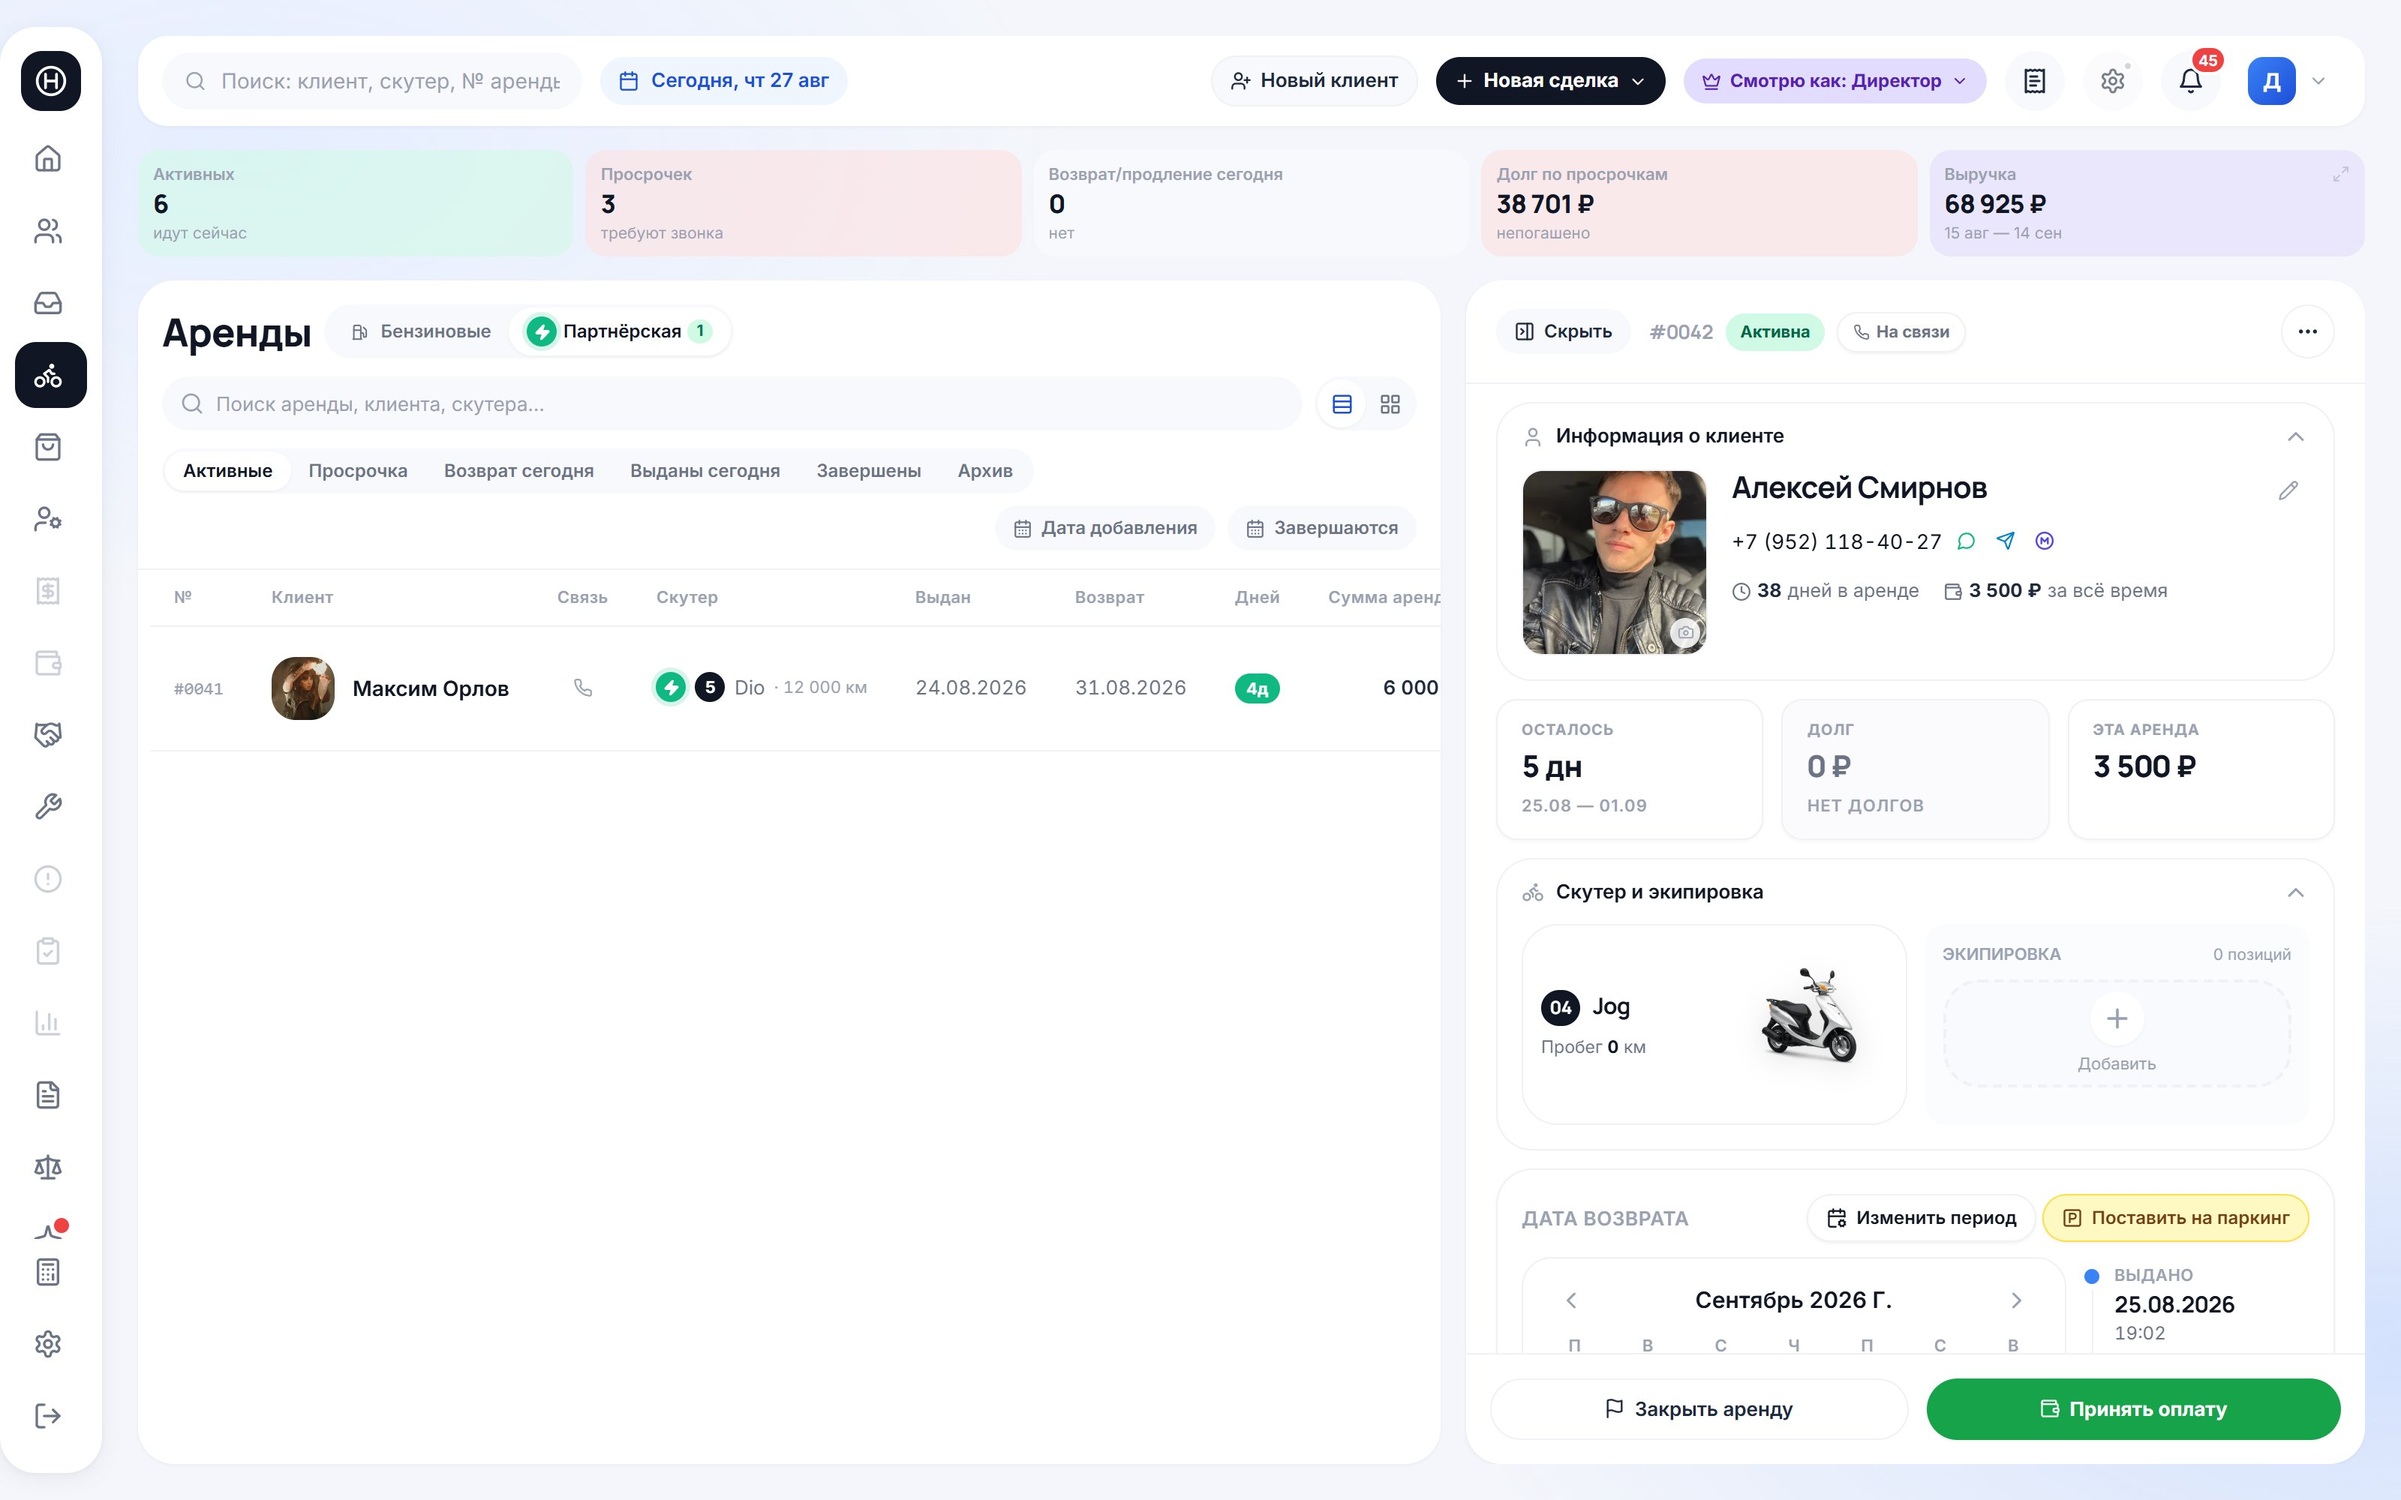
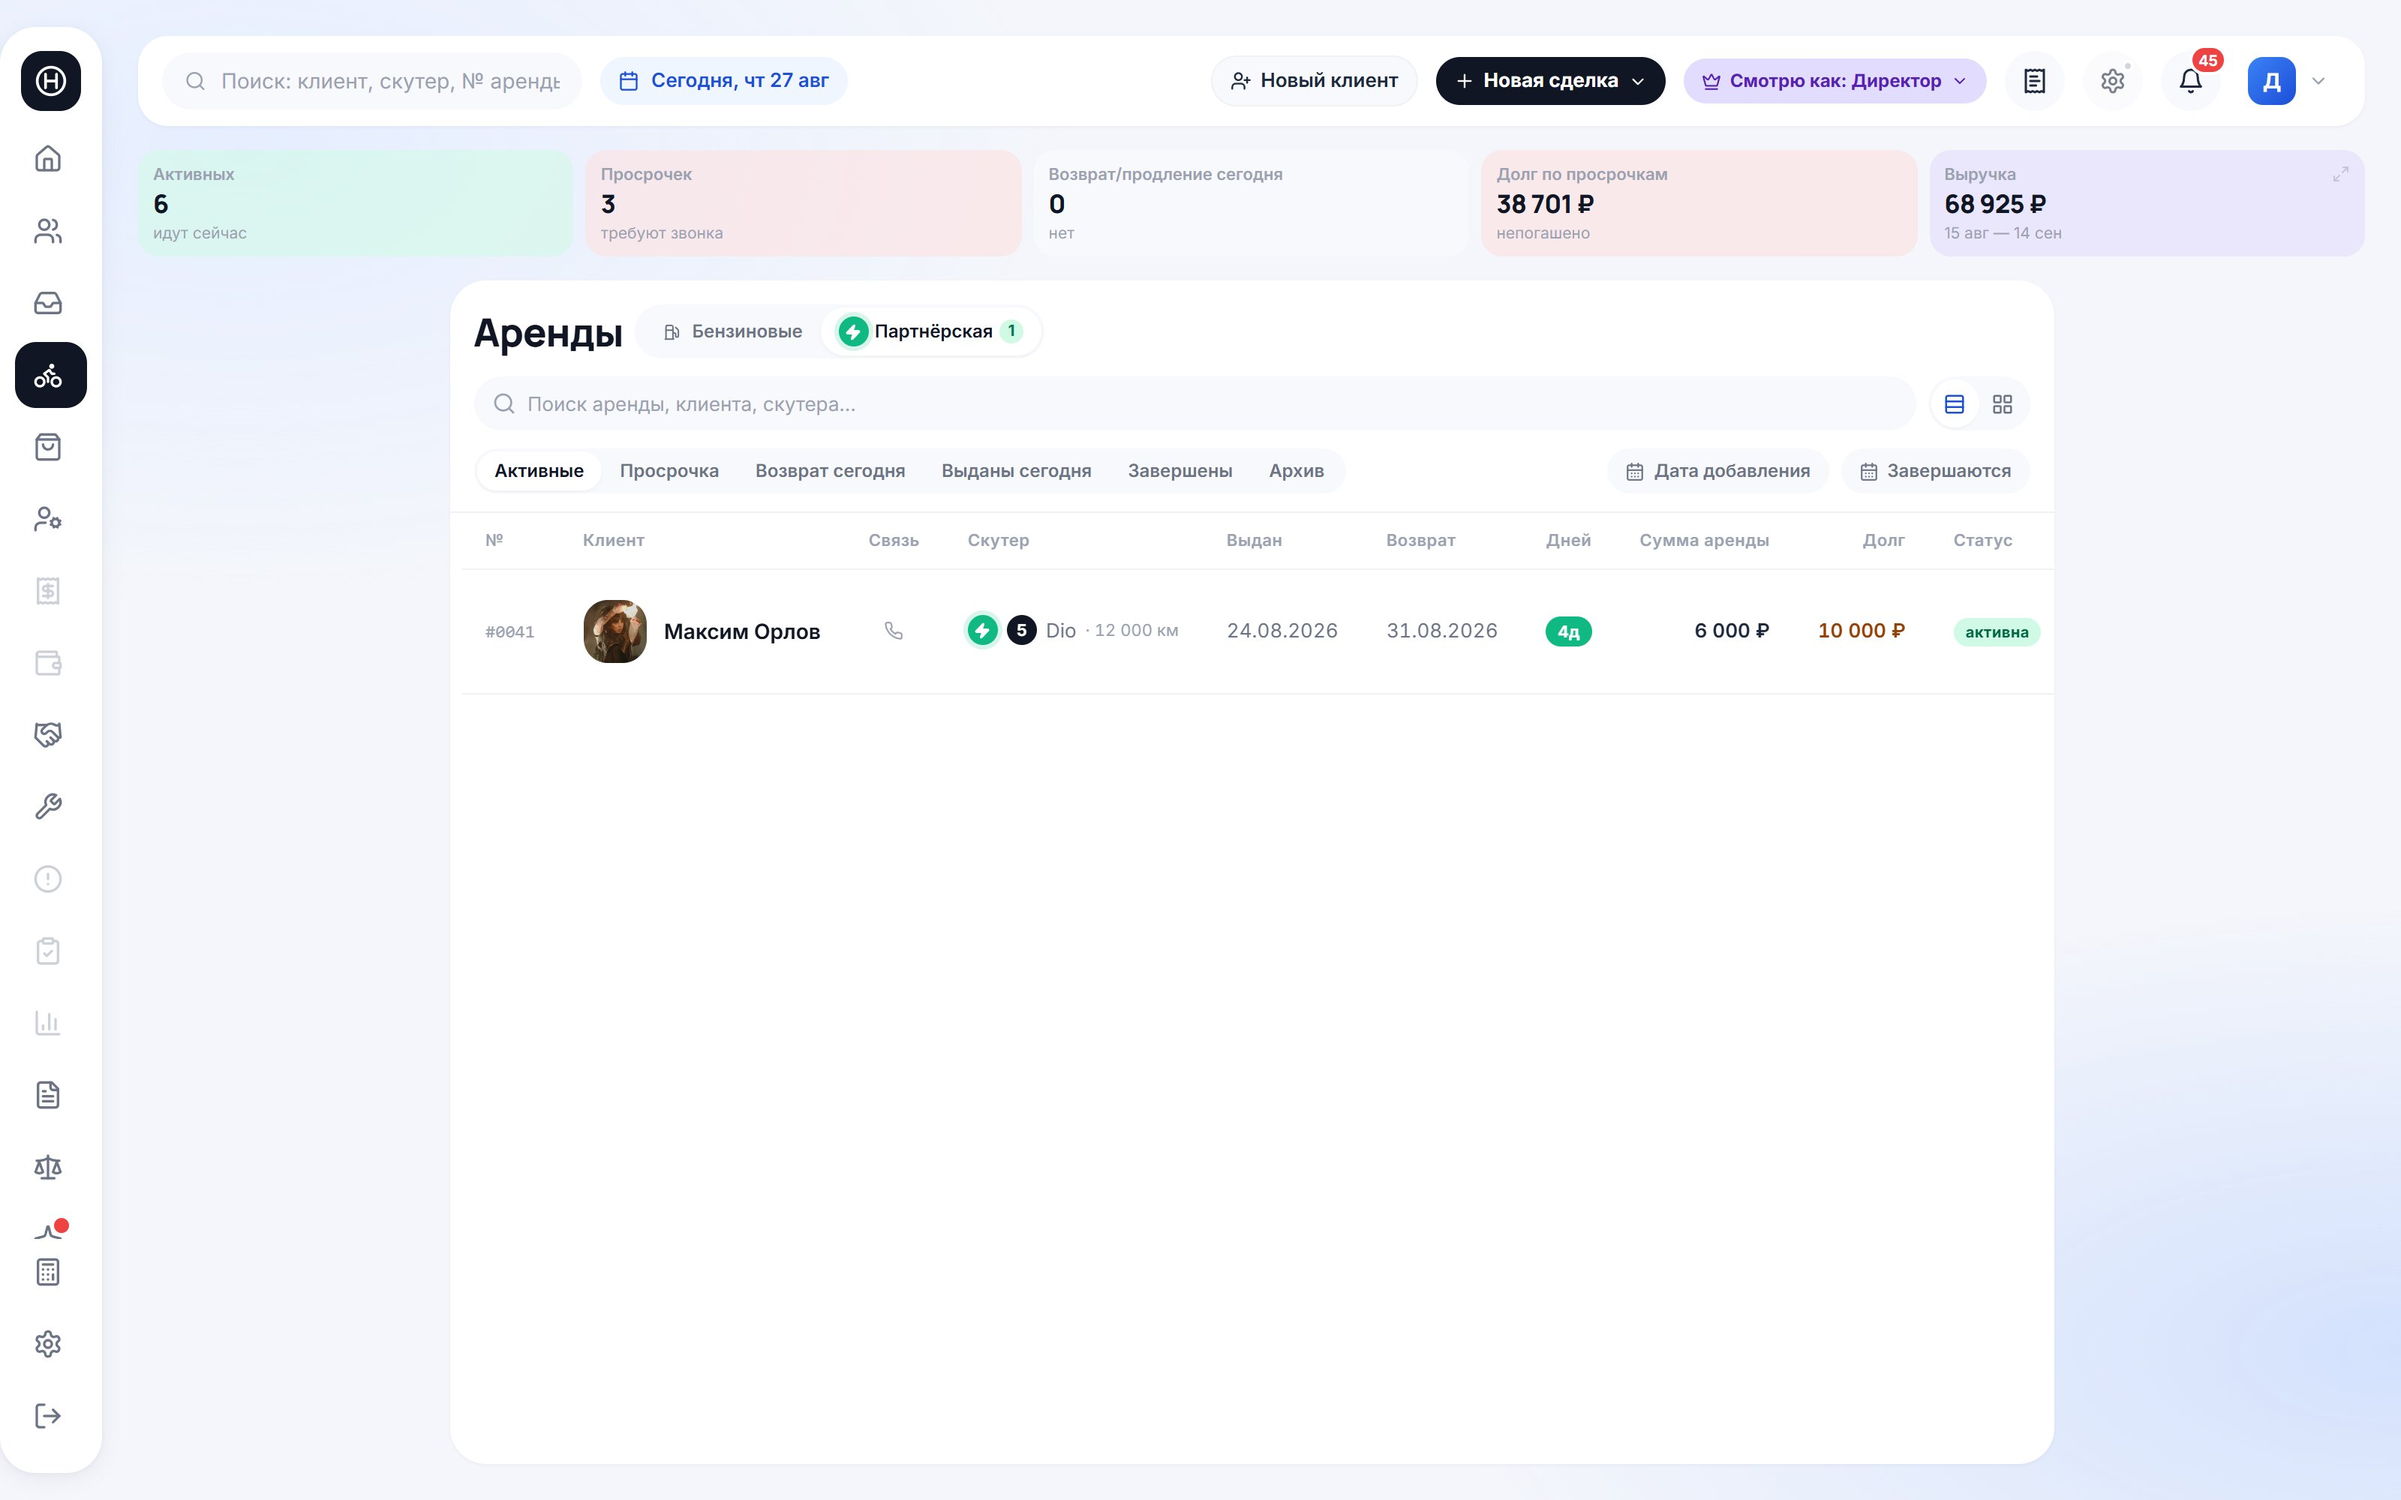
docs(развитие): свежие кадры табов техники (десктоп + мобила)

diff --git a/apps/web/src/data/progress.ts b/apps/web/src/data/progress.ts
@@ -1178,6 +1178,7 @@ export const progressItems: ProgressItem[] = [
           "При этом из общего раздела «Аренды» партнёрские аренды тоже достижимы — рядом с заголовком два таба: «Бензиновые» (открыт по умолчанию) и «Партнёрская» с бейджем активных. Переключили — тот же список, те же колонки, тот же поиск и фильтры, клик открывает ту же карточку. Таб появляется, только если партнёрская техника в системе есть, а при переключении открытая карточка из другого списка закрывается. То же самое на телефоне.",
         imgs: [
           { src: "/progress/v2-9-tabs.jpg", label: "Таб «Партнёрская»: аренды техники инвесторов в общем разделе" },
+          { src: "/progress/v2-9-tabs-mobile.jpg", label: "Те же табы на телефоне" },
         ],
       },
     ],
